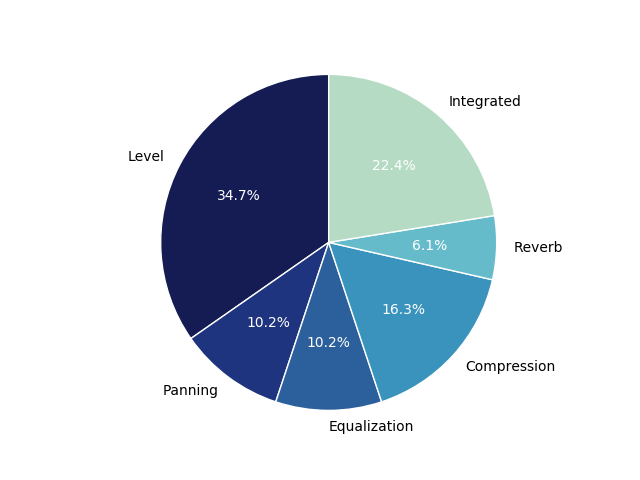
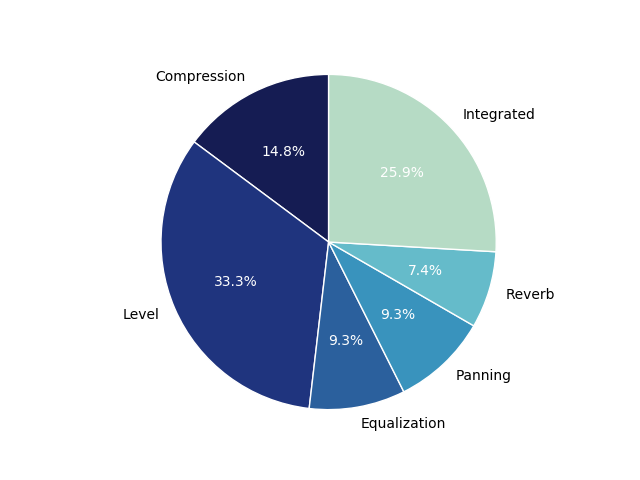
update 2019 papers

diff --git a/mixingpapers.py b/mixingpapers.py
@@ -17,11 +17,12 @@ def calculate_statistics(filename):
                   'Reverb' : 0,
                   'Integrated' : 0}
     
-    approaches = {'GT' : 0, 'KE' : 0, 'ML' : 0}
+    approaches = {'GT' : 0, 'KE' : 0, 'ML' : 0, 'OV' : 0}
 
     approaches_by_year = {'GT' : years.copy(),
                           'KE' : years.copy(),
-                          'ML' : years.copy()}
+                          'ML' : years.copy(),
+                          'OV' : years.copy()}
 
     categories_by_year = {'Level' : years.copy(), 
                           'Panning' : years.copy(),
@@ -36,6 +37,7 @@ def calculate_statistics(filename):
         mixing_tsv = csv.DictReader(mixing, dialect='excel-tab')
         f = mixing_tsv.fieldnames
         for entry in mixing_tsv:
+            print entry
             # get attributes from table
             year      = entry['Year']
             category  = entry['Category']
@@ -119,7 +121,7 @@ def calculate_statistics(filename):
 
     # plot pie chart of approaches
     plt.figure(3)
-    labels = ['Grounded Theory', 'Knowledge Engineering', 'Machine Learning']
+    labels = ['Grounded Theory', 'Knowledge Engineering', 'Machine Learning', 'Overview']
     sizes = approaches.values()
     colors = [GT_color, KE_color, ML_color]
     ax = plt.subplot(111)

diff --git a/README.md b/README.md
@@ -23,9 +23,21 @@ A number of different approaches have been employed to address the research prob
 ### Resources
 If related code or additional resources are available for the publication a link is provided. 
 
+## Compression
+|Year|Title|Authors|Approach|Resources|
+|---|---|---|---|---|
+|2018|[Adaptive Ballistics Control of Dynamic Range Compression for Percussive Tracks](http://davemoffat.com/wp/wp-content/uploads/2018/11/19748.pdf)|D. Moffat and M. B. Sandler|KE|[Yes](https://github.com/djmoffat/intelligentCompressor)|
+|2016|[Deep neural networks for dynamic range compression in mastering applications](http://www.aes.org/e-lib/browse.cfm?elib=18237)|S. I. Mimilakis et al.|ML|No|
+|2015|[Adaptive audio reproduction using personalized compression](https://www.eecs.qmul.ac.uk/~josh/documents/2015/Mason%20et%20al%20-%20AES57%20-%202015.pdf)|A. Mason et al.|GT|No|
+|2015|[Intelligent multitrack dynamic range compression](http://www.aes.org/e-lib/browse.cfm?elib=17821)|Z. Ma et al.|KE|No|
+|2014|[A statistical approach to automated offline dynamic processing in the audio mastering process](http://www.dafx14.fau.de/papers/dafx14_marcel_hilsamer_a_statistical_approach_to.pdf)|M. Hilsamer and S. Herzog|GT|No|
+|2013|[Parameter automation in a dynamic range compressor](http://www.aes.org/e-lib/browse.cfm?elib=16965)|D. Giannoulis, M. Massberg, and J. D. Reiss|KE|No|
+|2012|[An autonomous method for multi-track dynamic range compression](https://www.dafx12.york.ac.uk/papers/dafx12_submission_6.pdf)|J. A. Maddams, S. Finn, and J. D. Reiss|GT|No|
+|2010|[Automatic noise gate settings for drum recordings containing bleed from secondary sources](https://dl.acm.org/citation.cfm?id=1972713)|M. J. Terrell, J. D. Reiss|KE|No|
 ## Level
 |Year|Title|Authors|Approach|Resources|
 |---|---|---|---|---|
+|2019|[Machine Learning Multitrack Gain Mixing of Drums](http://www.aes.org/e-lib/browse.cfm?elib=20550)|D. Moffat and M. B. Sandler|ML|[Yes](https://djmoffat.github.io/MachineLearningDrumGainMixing/)|
 |2019|[Background Ducking to Produce Esthetically Pleasing Audio for TV with Clear Speech](http://www.aes.org/e-lib/browse.cfm?elib=20308)|M. Torcoli, A. Freke-Morin, J. Paulus, C. Simon, B. Shirley|KE|No|
 |2019|[Automatic Mixing Level Balancing Enhanced through Source Interference Identification](http://www.aes.org/e-lib/browse.cfm?elib=20355)|D. Moffat and M. B. Sandler|GT|No|
 |2018|[Automatic Mixing of Multitrack Material Using Modified Loudness Models](http://www.aes.org/e-lib/browse.cfm?conv=145&papernum=10041)|S. Fenton|KE|No|
@@ -43,14 +55,6 @@ If related code or additional resources are available for the publication a link
 |2009|[Automatic monitor mixing for live musical performance](http://www.aes.org/e-lib/browse.cfm?elib=15229)|M. J. Terrell and J. D. Reiss|GT|No|
 |2008|[An automatic maximum gain normalization technique with applications to audio mixing](http://www.aes.org/e-lib/browse.cfm?elib=14541)|E. Perez Gonzalez and J. D. Reiss|GT|No|
 |2008|[A framework for automatic mixing using timbral similarity measures and genetic optimization](http://www.aes.org/e-lib/browse.cfm?elib=14626)|B. Kolasinski|ML|[Yes](http://www.nyu.edu/projects/mtr/)|
-## Panning
-|Year|Title|Authors|Approach|Resources|
-|---|---|---|---|---|
-|2019|[An Automatic Mixing System for Multitrack Spatialization for Stereo Based on Unmasking and Best Panning Practices](http://www.aes.org/e-lib/browse.cfm?elib=20311)|A. Tom, J.D. Reiss, P. Depalle|KE|No|
-|2014|[A cross-adaptive dynamic spectral panning technique](http://www.dafx14.fau.de/papers/dafx14_pedro_d._pestana_a_cross_adaptive_dynamic_.pdf)|P. D. Pestana and J. D. Reiss|GT|No|
-|2012|[An autonomous system for multitrack stereo pan positioning](http://www.eecs.qmul.ac.uk/~josh/documents/MansbridgeFinnReiss-AES133-Autonomoussystemformultitrackstereopositioning.pdf)|S. Mansbridge, S. Finn, and J. D. Reiss|KE|No|
-|2010|[A real-time semiautonomous audio panning system for music mixing](https://asp-eurasipjournals.springeropen.com/articles/10.1155/2010/436895)|E. Perez Gonzalez and J. D. Reiss|GT|No|
-|2007|[Automatic mixing: live downmixing stereo panner](http://dafx.labri.fr/main/papers/p063.pdf)|E. Perez Gonzalez and J. D. Reiss|GT|No|
 ## Equalization
 |Year|Title|Authors|Approach|Resources|
 |---|---|---|---|---|
@@ -59,30 +63,31 @@ If related code or additional resources are available for the publication a link
 |2013|[Automated tonal balance enhancement for audio mastering applications](http://www.aes.org/e-lib/browse.cfm?elib=16737)|S. I. Mimilakis et al|GT|No|
 |2013|[Implementation of an intelligent equalization tool using Yule-Walker for music mixing and mastering](http://www.eecs.qmul.ac.uk/~josh/documents/Ma%20Reiss-%20Implementation%20of%20an%20Intelligent%20Equalization%20Tool%20Using%20Yule-Walker%20for%20Music%20Mixing%20and%20Mastering.pdf)|Z. Ma, J. D. Reiss, and D. A. A. Black|KE|No|
 |2009|[Automatic equalization of multichannel audio using cross-adaptive methods](http://www.aes.org/e-lib/browse.cfm?elib=15026)|E. Perez Gonzalez and J. D. Reiss|GT|No|
-## Compression
+## Panning
 |Year|Title|Authors|Approach|Resources|
 |---|---|---|---|---|
-|2018|[Adaptive Ballistics Control of Dynamic Range Compression for Percussive Tracks](http://davemoffat.com/wp/wp-content/uploads/2018/11/19748.pdf)|D. Moffat and M. B. Sandler|KE|[Yes](https://github.com/djmoffat/intelligentCompressor)|
-|2016|[Deep neural networks for dynamic range compression in mastering applications](http://www.aes.org/e-lib/browse.cfm?elib=18237)|S. I. Mimilakis et al.|ML|No|
-|2015|[Adaptive audio reproduction using personalized compression](https://www.eecs.qmul.ac.uk/~josh/documents/2015/Mason%20et%20al%20-%20AES57%20-%202015.pdf)|A. Mason et al.|GT|No|
-|2015|[Intelligent multitrack dynamic range compression](http://www.aes.org/e-lib/browse.cfm?elib=17821)|Z. Ma et al.|KE|No|
-|2014|[A statistical approach to automated offline dynamic processing in the audio mastering process](http://www.dafx14.fau.de/papers/dafx14_marcel_hilsamer_a_statistical_approach_to.pdf)|M. Hilsamer and S. Herzog|GT|No|
-|2013|[Parameter automation in a dynamic range compressor](http://www.aes.org/e-lib/browse.cfm?elib=16965)|D. Giannoulis, M. Massberg, and J. D. Reiss|KE|No|
-|2012|[An autonomous method for multi-track dynamic range compression](https://www.dafx12.york.ac.uk/papers/dafx12_submission_6.pdf)|J. A. Maddams, S. Finn, and J. D. Reiss|GT|No|
-|2010|[Automatic noise gate settings for drum recordings containing bleed from secondary sources](https://dl.acm.org/citation.cfm?id=1972713)|M. J. Terrell, J. D. Reiss|KE|No|
+|2019|[An Automatic Mixing System for Multitrack Spatialization for Stereo Based on Unmasking and Best Panning Practices](http://www.aes.org/e-lib/browse.cfm?elib=20311)|A. Tom, J.D. Reiss, P. Depalle|KE|No|
+|2014|[A cross-adaptive dynamic spectral panning technique](http://www.dafx14.fau.de/papers/dafx14_pedro_d._pestana_a_cross_adaptive_dynamic_.pdf)|P. D. Pestana and J. D. Reiss|GT|No|
+|2012|[An autonomous system for multitrack stereo pan positioning](http://www.eecs.qmul.ac.uk/~josh/documents/MansbridgeFinnReiss-AES133-Autonomoussystemformultitrackstereopositioning.pdf)|S. Mansbridge, S. Finn, and J. D. Reiss|KE|No|
+|2010|[A real-time semiautonomous audio panning system for music mixing](https://asp-eurasipjournals.springeropen.com/articles/10.1155/2010/436895)|E. Perez Gonzalez and J. D. Reiss|GT|No|
+|2007|[Automatic mixing: live downmixing stereo panner](http://dafx.labri.fr/main/papers/p063.pdf)|E. Perez Gonzalez and J. D. Reiss|GT|No|
 ## Reverb
 |Year|Title|Authors|Approach|Resources|
 |---|---|---|---|---|
+|2019|[An Automated Approach to the Application of Reverberation](http://www.aes.org/e-lib/browse.cfm?elib=20637)|D. Moffat and M. B. Sandler|KE|[Yes](https://github.com/djmoffat/AutoReverb)|
 |2017|[Intelligent multitrack reverberation based on hinge-loss markov random field](http://www.aes.org/e-lib/browse.cfm?elib=18766)|A. L. Benito and J. D. Reiss|ML|[Yes](https://code.soundsoftware.ac.uk/projects/multitrackreverb)|
 |2017|[A machine learning approach to application of intelligent artificial reverberation](http://www.aes.org/e-lib/browse.cfm?elib=18543)|E. T. Chourdakis and J. D. Reiss|ML|[Yes](https://code.soundsoftware.ac.uk/projects/chourdakisreiss2016)|
 |2016|[Automatic control of a digital reverberation effect using hybrid models](http://www.aes.org/e-lib/browse.cfm?elib=18090)|E. T. Chourdakis and J. D. Reiss|ML|No|
 ## Integrated
 |Year|Title|Authors|Approach|Resources|
 |---|---|---|---|---|
+|2019|[Approaches in Intelligent Music Production](https://www.mdpi.com/541536)|D. Moffat and M. B. Sandler|OV|No|
+|2019|[Intelligent Music Production](https://www.routledge.com/Intelligent-Music-Production-1st-Edition/De-Man-Stables-Reiss/p/book/9781138055193)|B. De Man and J.D. Reiss and R. Stables|OV|No|
 |2018|[Towards a Semantic Web Representation and Application of Audio Mixing Rules](https://research.hud.ac.uk/media/assets/document/research/3-MoffatThalmannSandlerWIMP2018.pdf)|D. Moffat, F. Thalmann and M. B. Sandler|KE|No|
 |2018|[Automatic minimisation of masking in multitrack audio using subgroups](https://arxiv.org/abs/1803.09960)|D. Ronan, Z. Ma, P. Mc Namara, H. Gunes, and J. D. Reiss|GT|[Yes](https://code.soundsoftware.ac.uk/projects/automatic-minimisation-of-masking-in-multitrack-audio-using-subgroups)|
 |2017|[Towards an automated multitrack mixing tool using answer set programming](http://smc2017.aalto.fi/media/materials/proceedings/SMC17_p422.pdf)|F. Everardo|KE|No|
 |2017|[Analysis and prediction of the audio feature space when mixing raw recordings into individual stems](http://www.aes.org/e-lib/browse.cfm?elib=19245)|M. A. Martínez Ramírez and J. D. Reiss|ML|[Yes](https://github.com/mchijmma/audioFeatures-stemMixing)|
+|2017|[Ten Years of Automatic Mixing](http://www.brechtdeman.com/publications/pdf/WIMP3.pdf)|B. De Man and J.D. Reiss and R. Stables|OV|[Yes](No )|
 |2016|[New sonorities for jazz recordings: Separation and mixing using deep neural networks](http://c4dm.eecs.qmul.ac.uk/events/wimp2/Mimilakis.pdf)|S. I. Mimilakis et al.|ML|[Yes](https://github.com/Js-Mim/aes_wimp)|
 |2015|[New sonorities for early jazz recordings using sound source separation and automatic mixing tools](http://ismir2015.uma.es/articles/190_Paper.pdf)|D. Matz, E. Cano, and J. Abeßer|GT|No|
 |2013|[A knowledge-engineered autonomous mixing system](http://www.aes.org/e-lib/browse.cfm?elib=17011)|B. De Man and J. D. Reiss|KE|No|
